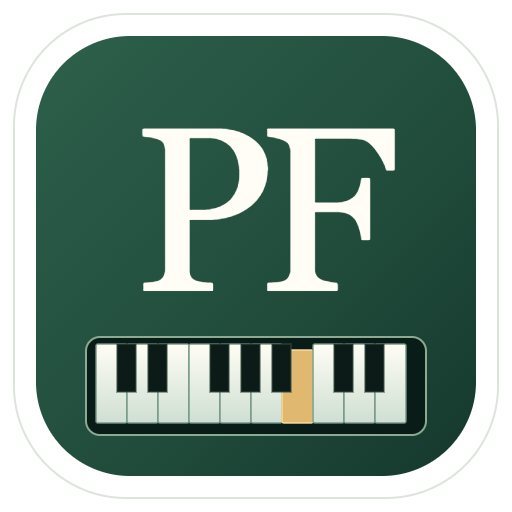
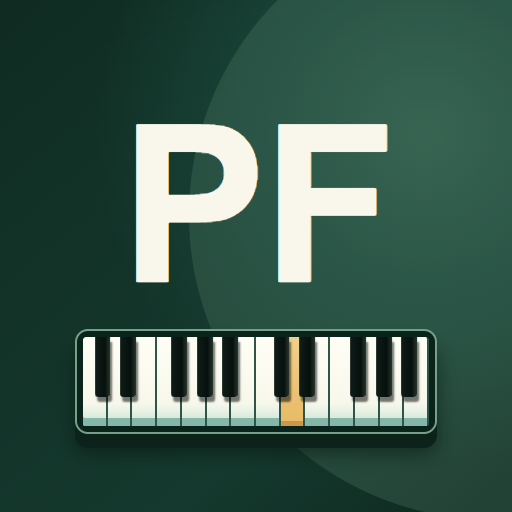
Use full-bleed Play listing graphics

diff --git a/scripts/store-assets/README.md b/scripts/store-assets/README.md
@@ -7,6 +7,12 @@ drawn from the hub's own design: the porcelain tile with its Han glyph and accen
 `--accent #DE5A4F`, `--muted #B7AFA2`). Output goes to `store-assets/<product>/<store>/`, which
 `.assetsignore` keeps out of the deployed site.
 
+The committed Google Play icons and feature graphics for PolyFlow and AlongSide are curated
+listing artwork. `build.mjs` leaves these files intact when refreshing the other store assets.
+PolyFlow also has a Georgia typography variant in `store-assets/polyflow/google-play/polyflow-georgia/`.
+Each listing icon is a full square with an opaque background; each feature graphic fills 1,024 × 500
+without an outer frame.
+
 ```
 node scripts/store-assets/build.mjs             # all products
 node scripts/store-assets/build.mjs polyflow    # one product
